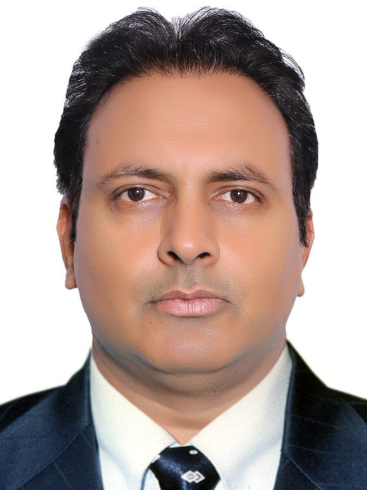
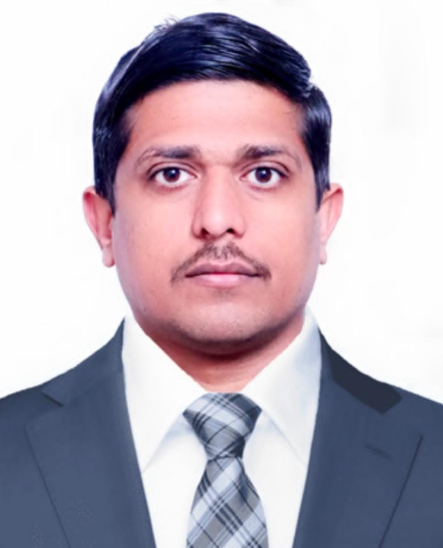
gallery fixed

diff --git a/src/pages/Gallery.jsx b/src/pages/Gallery.jsx
@@ -2,21 +2,34 @@ import { motion } from 'framer-motion';
 import { useState } from 'react';
 import img1 from '../assets/images/gallery/WhatsApp Image 2026-03-26 at 10.37.23 AM.jpeg';
 import img2 from '../assets/images/gallery/WhatsApp Image 2026-03-26 at 10.37.24 AM.jpeg';
-import img3 from '../assets/images/gallery/WhatsApp Image 2026-03-26 at 10.37.25 AM.jpeg';
-import img4 from '../assets/images/gallery/WhatsApp Image 2026-03-26 at 10.37.26 AM.jpeg';
+import img3 from '../assets/images/gallery/WhatsApp Image 2026-03-26 at 10.37.24 Ak.jpeg';
+import img4 from '../assets/images/gallery/WhatsApp Image 2026-03-26 at 10.37.25 AM.jpeg';
+import img5 from '../assets/images/gallery/WhatsApp Image 2026-03-26 at 10.37.26 AM.jpeg';
+
+import img7 from '../assets/images/gallery/WhatsApp Image 2026-05-14 at 1.40.13 PM.jpeg';
+import img8 from '../assets/images/gallery/WhatsApp Image 2026-05-14 at 1.40.14 PM.jpeg';
+import img9 from '../assets/images/gallery/WhatsApp Image 2026-05-14 at 1.40.15 PM.jpeg';
+import img10 from '../assets/images/gallery/WhatsApp Image 2026-05-14 at 1.40.15 PM1.jpeg';
+
 
 export default function Gallery() {
   const [selectedCategory, setSelectedCategory] = useState('all');
   
   // Real gallery data
   const galleryItems = [
-    { id: 1, category: 'campus', image: img1, title: 'Campus View' },
-    { id: 2, category: 'events', image: img2, title: 'Annual Event' },
-    { id: 3, category: 'sports', image: img3, title: 'Sports Day' },
-    { id: 4, category: 'campus', image: img4, title: 'School Building' },
+    { id: 1, category: 'campus', image: img1, title: 'Staff Portrait' },
+    { id: 2, category: 'campus', image: img2, title: 'Staff Portrait' },
+    { id: 3, category: 'events', image: img3, title: 'Staff Ceremony' },
+    { id: 4, category: 'events', image: img4, title: 'Annual Gathering' },
+    { id: 5, category: 'events', image: img5, title: 'Event Moments' },
+   
+    { id: 7, category: 'sports', image: img7, title: 'Student Achievement' },
+    { id: 8, category: 'sports', image: img8, title: 'Student Achievement' },
+    { id: 9, category: 'admissions', image: img9, title: 'Admissions Open' },
+    { id: 10, category: 'classroom', image: img10, title: 'Classroom Learning' },
   ];
 
-  const categories = ['all', 'campus', 'events', 'sports'];
+  const categories = ['all', 'campus', 'events', 'sports', 'admissions', 'classroom'];
 
   // Filter items based on category
   const filteredItems = selectedCategory === 'all' 

diff --git a/src/pages/Home.jsx b/src/pages/Home.jsx
@@ -3,10 +3,15 @@ import { motion, useInView, AnimatePresence, useScroll, useTransform } from 'fra
 import principalImg from '../assets/images/UI/principal.png';
 import chairmanImg from '../assets/images/UI/chairman.png';
 import galleryImg1 from '../assets/images/gallery/WhatsApp Image 2026-03-26 at 10.37.23 AM.jpeg';
-import heroImg from '../assets/images/gallery/WhatsApp Image 2026-03-26 at 11.16.08 AM.jpeg';
+import heroImg from '../assets/images/UI/WhatsApp Image 2026-03-26 at 11.16.08 AM.jpeg';
 import galleryImg2 from '../assets/images/gallery/WhatsApp Image 2026-03-26 at 10.37.24 AM.jpeg';
+import galleryImg2b from '../assets/images/gallery/WhatsApp Image 2026-03-26 at 10.37.24 Ak.jpeg';
 import galleryImg3 from '../assets/images/gallery/WhatsApp Image 2026-03-26 at 10.37.25 AM.jpeg';
 import galleryImg4 from '../assets/images/gallery/WhatsApp Image 2026-03-26 at 10.37.26 AM.jpeg';
+import galleryImg5 from '../assets/images/gallery/WhatsApp Image 2026-05-14 at 1.40.13 PM.jpeg';
+import galleryImg6 from '../assets/images/gallery/WhatsApp Image 2026-05-14 at 1.40.14 PM.jpeg';
+import galleryImg7 from '../assets/images/gallery/WhatsApp Image 2026-05-14 at 1.40.15 PM.jpeg';
+import galleryImg8 from '../assets/images/gallery/WhatsApp Image 2026-05-14 at 1.40.15 PM1.jpeg';
 
 // Icons
 const BookIcon = () => (<svg className="w-8 h-8" fill="none" stroke="currentColor" viewBox="0 0 24 24"><path strokeLinecap="round" strokeLinejoin="round" strokeWidth={2} d="M12 6.253v13m0-13C10.832 5.477 9.246 5 7.5 5S4.168 5.477 3 6.253v13C4.168 18.477 5.754 18 7.5 18s3.332.477 4.5 1.253m0-13C13.168 5.477 14.754 5 16.5 5c1.747 0 3.332.477 4.5 1.253v13C19.832 18.477 18.247 18 16.5 18c-1.746 0-3.332.477-4.5 1.253" /></svg>);
@@ -90,7 +95,14 @@ export default function Home() {
     { question: "What extracurriculars are available?", answer: "We focus heavily on overall development with sports, classical music, art classes, career counselling, AI, and basic computer skills." }
   ];
 
-  const previewImages = [galleryImg1, galleryImg2, galleryImg3, galleryImg4];
+  const previewImages = [
+    galleryImg1,
+    galleryImg2,
+    galleryImg2b,
+    galleryImg3,
+    galleryImg4,
+    galleryImg5
+  ];
 
   const fadeInUp = {
     hidden: { opacity: 0, y: 40 },

diff --git a/src/pages/About.jsx b/src/pages/About.jsx
@@ -98,7 +98,7 @@ export default function About() {
               variants={fadeInUp}
               className="bg-white p-8 rounded-2xl shadow-lg hover:shadow-xl transition-shadow text-center"
             >
-              <div className="bg-gray-300 aspect-square rounded-xl mb-6 overflow-hidden max-w-[250px] mx-auto">
+              <div className="bg-gray-300 aspect-square rounded-xl mb-6 overflow-hidden max-w-[240px] mx-auto">
                 <img src={chairmanImg} alt="Jasvir Singh" className="w-full h-full object-cover object-top" />
               </div>
               <h3 className="text-2xl font-bold mb-2 text-gray-800">Jasvir Singh</h3>
@@ -111,7 +111,7 @@ export default function About() {
               variants={fadeInUp}
               className="bg-white p-8 rounded-2xl shadow-lg hover:shadow-xl transition-shadow text-center"
             >
-              <div className="bg-gray-300 aspect-square rounded-xl mb-6 overflow-hidden max-w-[250px] mx-auto">
+              <div className="bg-gray-300 aspect-square rounded-xl mb-6 overflow-hidden  h-[240px] max-w-[240px] mx-auto">
                 <img src={principalImg} alt="Gagandeep Singh" className="w-full h-full object-cover object-top" />
               </div>
               <h3 className="text-2xl font-bold mb-2 text-gray-800">Gagandeep Singh</h3>
